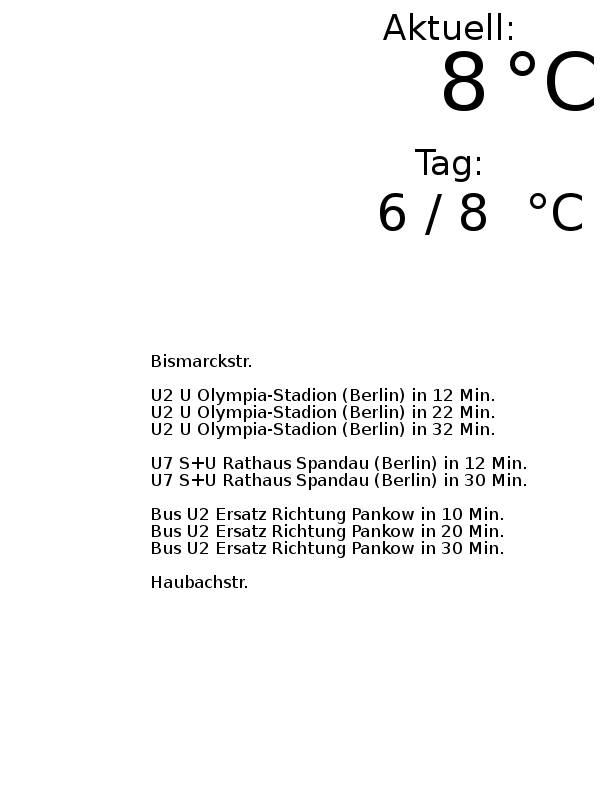
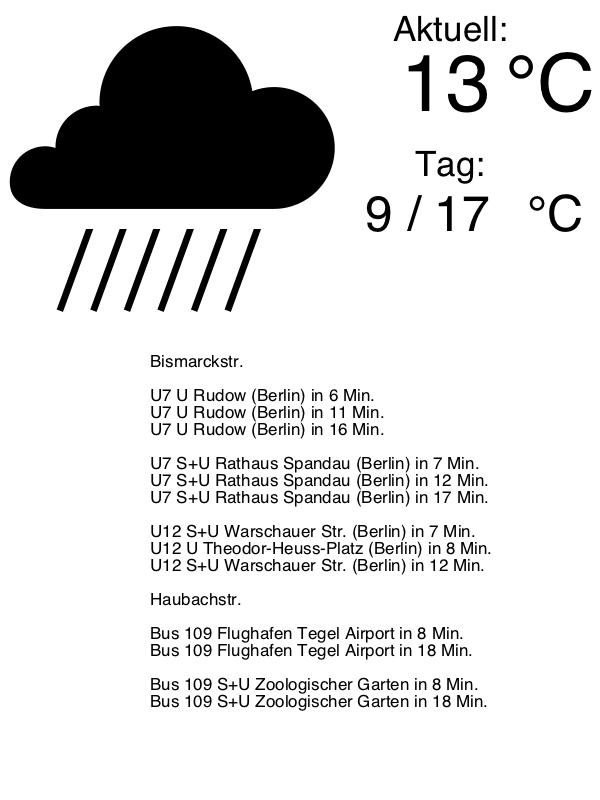
Added description.

diff --git a/fetch_weather.py b/fetch_weather.py
@@ -54,32 +54,32 @@ def buildDepartureTable(departures, name):
             table += "<tspan x=\"150\" dy=\"1em\"> </tspan>\n"
     return table
 
-# using the openweathermap api
-city_id = "2950159"; #Berlin
+class Station:
+    def __init__(self, )
+
+fp = open("config.json")
+config = json.load(fp)
+config = config["city_id"]
+city_id = config["city_id"]
+
 current_api_url = "http://api.openweathermap.org/data/2.5/weather?id=" + city_id;
 forecast_api_url = "http://api.openweathermap.org/data/2.5/forecast/daily?id=" + city_id;
 
 current_weather = getJSON(current_api_url)
-
 forecast_weather = getJSON(forecast_api_url)['list'][0]
-# print('current:\n')
-# pprint(current_weather)
-# print('forecast\n')
-# pprint(forecast_weather)
 
 current_temp = int(round(KelvToCels(current_weather['main']['temp']), 0))
 max_temp = int(round(KelvToCels(forecast_weather['temp']['max']), 0))
 min_temp = int(round(KelvToCels(forecast_weather['temp']['min']), 0))
 icon = forecast_weather['weather'][0]['icon']
 
+stations
+
 #using the BVG grabber api
 station_sub_id = "U%20Bismarckstr.%20(Berlin)"
 traffic_sub_api_url = "https://bvg-grabber-api.herokuapp.com/actual?station=" + station_sub_id
 
 traffic_sub = getJSON(traffic_sub_api_url)
-
-# print("Sub Traffic:\n")
-# pprint(traffic_sub)
 
 sub_departures = []
 
@@ -107,16 +107,8 @@ tegel_departures = getDepartures(bus_departures,"Bus  109", "Flughafen Tegel Air
 zoo_departures = getDepartures(bus_departures,"Bus  109", "S+U Zoologischer Garten", 3, 60, 2);
 bus_others = getDeparturesExcludedByLine(bus_departures,"Bus  109", 3, 60, 2)
 
-# print("Bus Traffic:\n")
-# pprint(traffic_bus)
-
-# for item in traffic_bus[0][1]:
-    # print(item['line'] + " " + item['end'] + " in " + str(item['remaining'] / 60) + " Min.")
-
 table_sub = buildDepartureTable([u2_pankow_departures, u2_ruhleben_departures, u7_rudow_departures, u7_rath_spandau_departures, bus_bismarck_departures], 'Bismarckstr.')
 table_bus = buildDepartureTable([tegel_departures, zoo_departures, bus_others], 'Haubachstr.')
-
-# print(table_bus)
 
 output = codecs.open('weather-script-preprocess.svg', 'r', encoding='utf-8').read()
 output = output.replace('ICON_ONE', icon)

diff --git a/config.py b/config.py
@@ -1,0 +1,56 @@
+{
+    "config": 
+    {
+        "city_id": "2950159",
+        "stations":
+        [
+            {
+                "query": "U%20Bismarckstr.%20(Berlin)",
+                "trains":
+                [
+                    {                    
+                        "line": "U7",
+                        "destinations": ["U Rudow (Berlin)"]
+                    },
+                    {
+                        "line": "U7",
+                        "destinations": ["S+U Rathaus Spandau (Berlin)"]
+                    },
+                    {
+                        "line": "U2",
+                        "destinations": ["U Pankow (Berlin)"]
+                    },
+                    {
+                        "line": "U2",
+                        "destinations":
+                        [
+                            "U Ruhleben(Berlin)", "U Olympia-Stadion (Berlin)", "U Theodor-Heuss-Platz (Berlin)"
+                        ]
+                    }
+                ]
+                
+            },
+
+            {
+                "query": "B%20Haubachstr.%20(Berlin)",
+                "trains":
+                [
+                    {
+                        "line": "Bus 109",
+                        "destinations": 
+                        [
+                            "Flughafen Tegel Airport"
+                        ]
+                    },
+                    {
+                        "line": "Bus  109",
+                        "destinations": 
+                        [
+                            "S+U Zoologischer Garten"
+                        ]
+                    }
+                ]
+            }
+        ]
+    }
+}

diff --git a/README.md b/README.md
@@ -1,2 +1,8 @@
-# my_kindle_weather
-This is a small project to use a kindle e-book reader as a display for weather forecast and train and bus departures. 
+![png](kindle.jpg)
+
+Weather display functionality inspired by 
+http://www.mpetroff.net/archives/2012/09/14/kindle-weather-display/
+
+I added a section for depture times of Busses, Tram and Subway (using BVG-grabber api).
+
+Please note, that this was just an excercise for me, to introduce myself into Python and that my goal was not to write beautiful code, but rather something that works and fulfills my personal usecase.  
